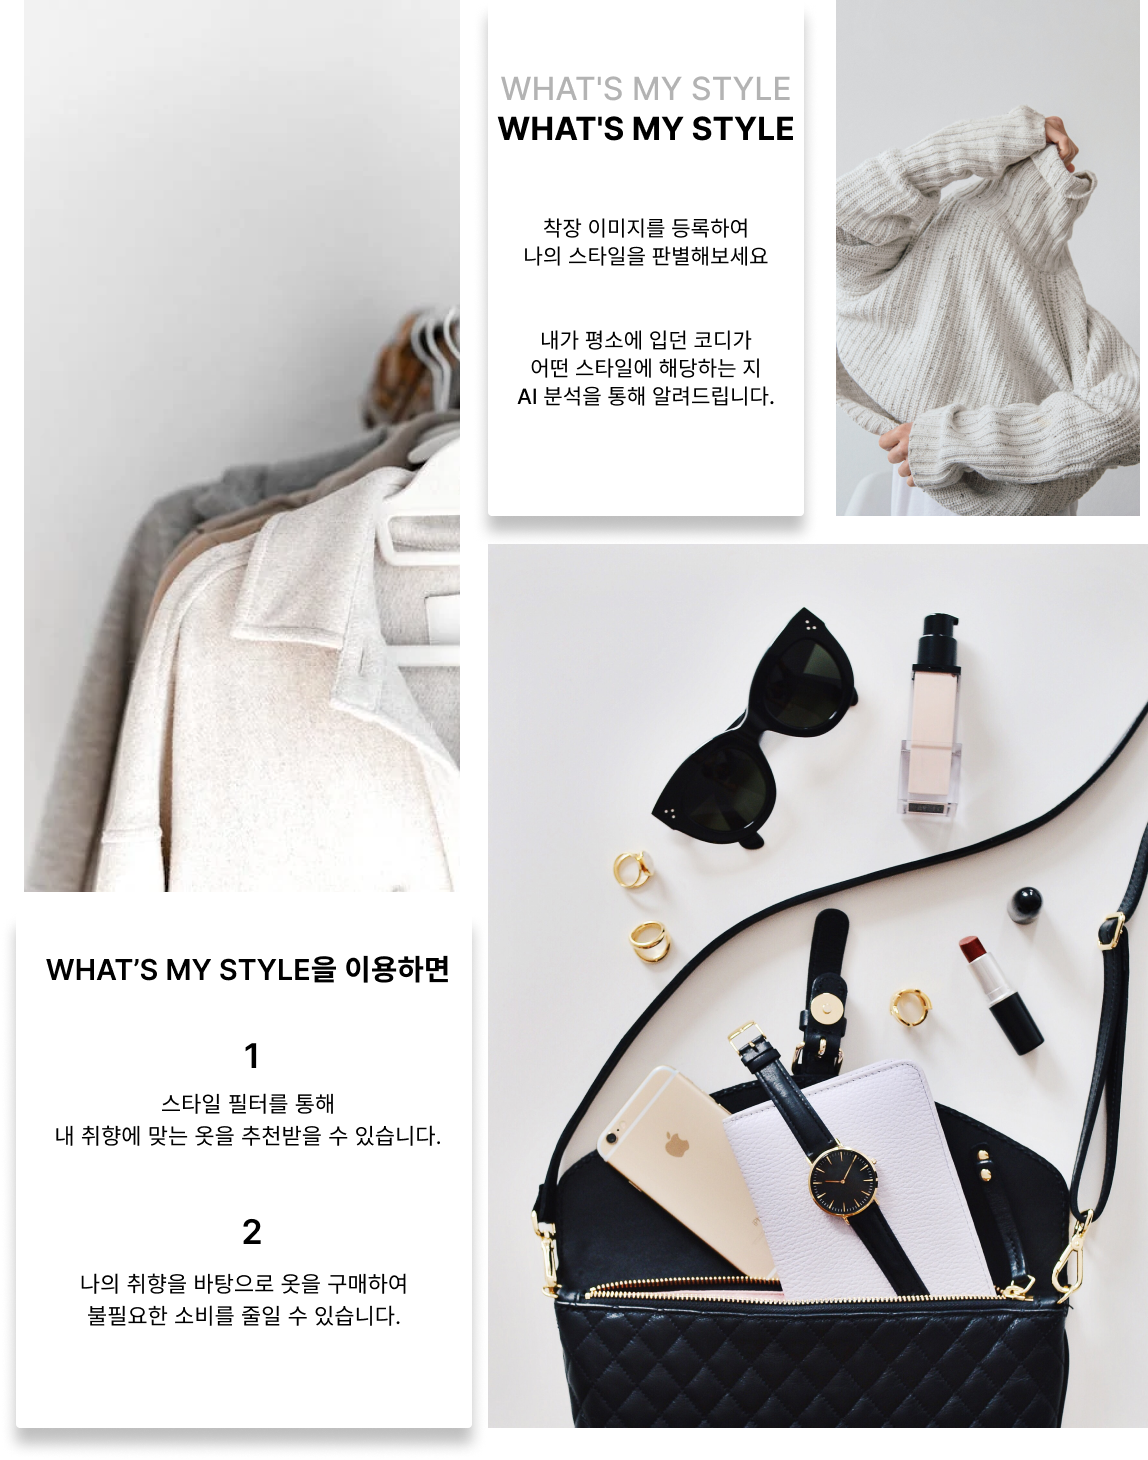
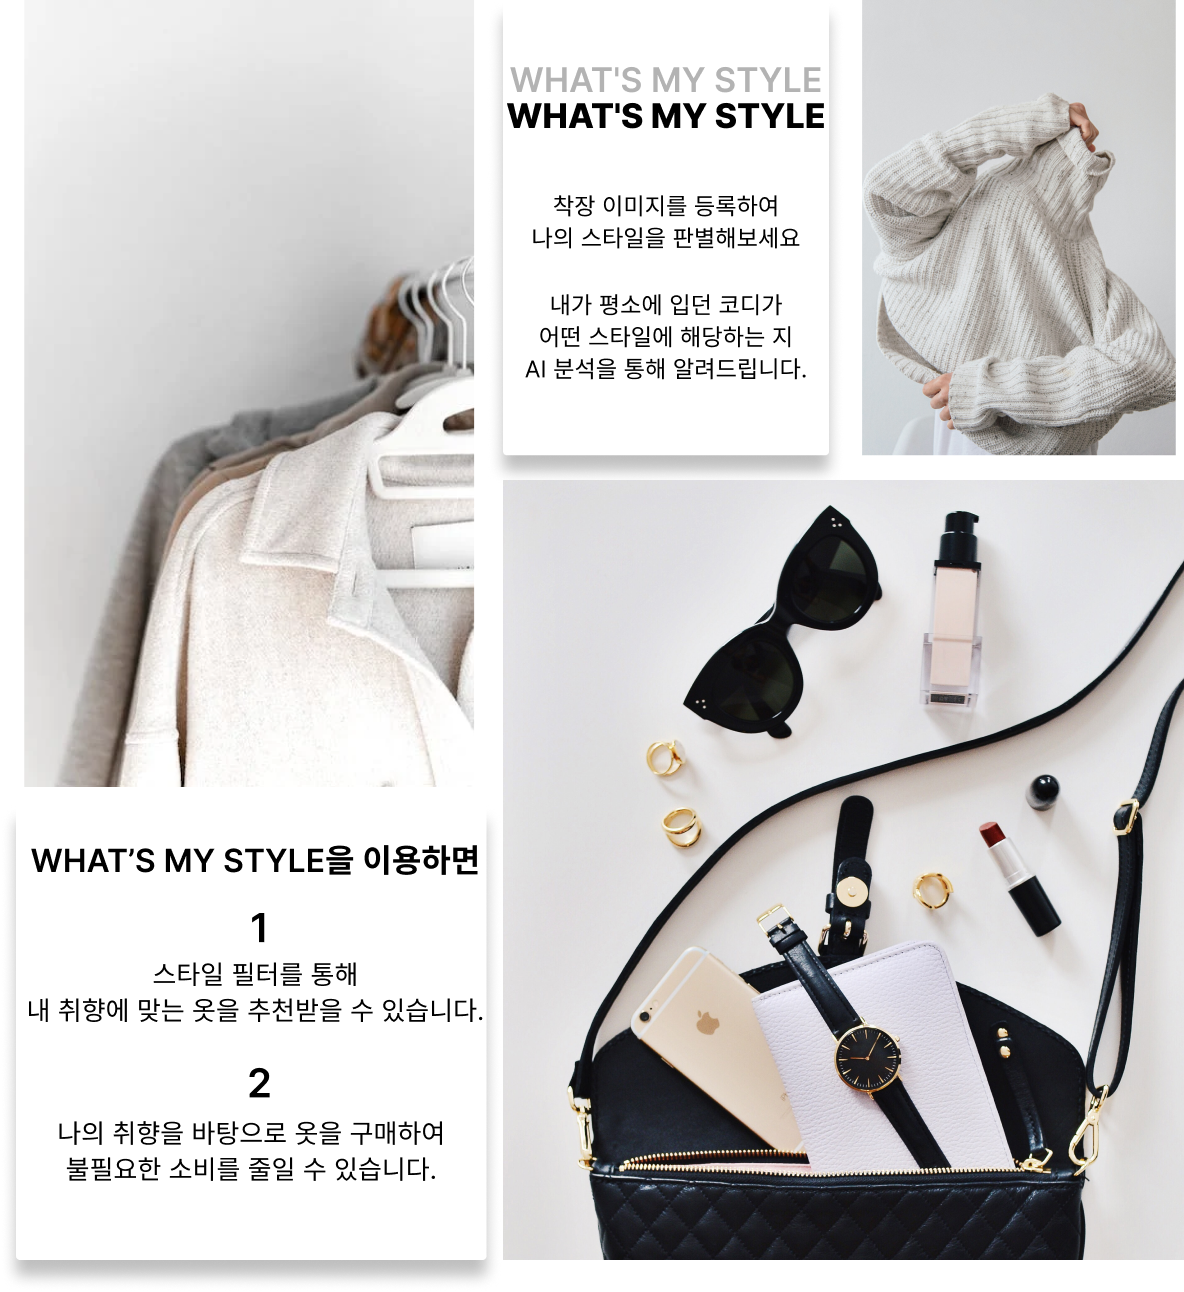
feature/fe/FindIndex 사이즈 조절

diff --git a/frontend/src/views/Find/IndexView.vue b/frontend/src/views/Find/IndexView.vue
@@ -1,10 +1,10 @@
 <template>
   <div>
-    <div class="SubNav">
+    <!-- <div class="SubNav">
         <div class="SubNavText">
             WHAT’S MY STYLE
         </div>
-    </div>
+    </div> -->
 
     <img src="@/assets/img/PictureIndex.png" id="PictureIndex">
     <br>
@@ -50,7 +50,7 @@ export default {
 }
 
 #PictureIndex {
-    margin-top: 5%;
+    margin-top: 2%;
     width: 95%;
 }
 
